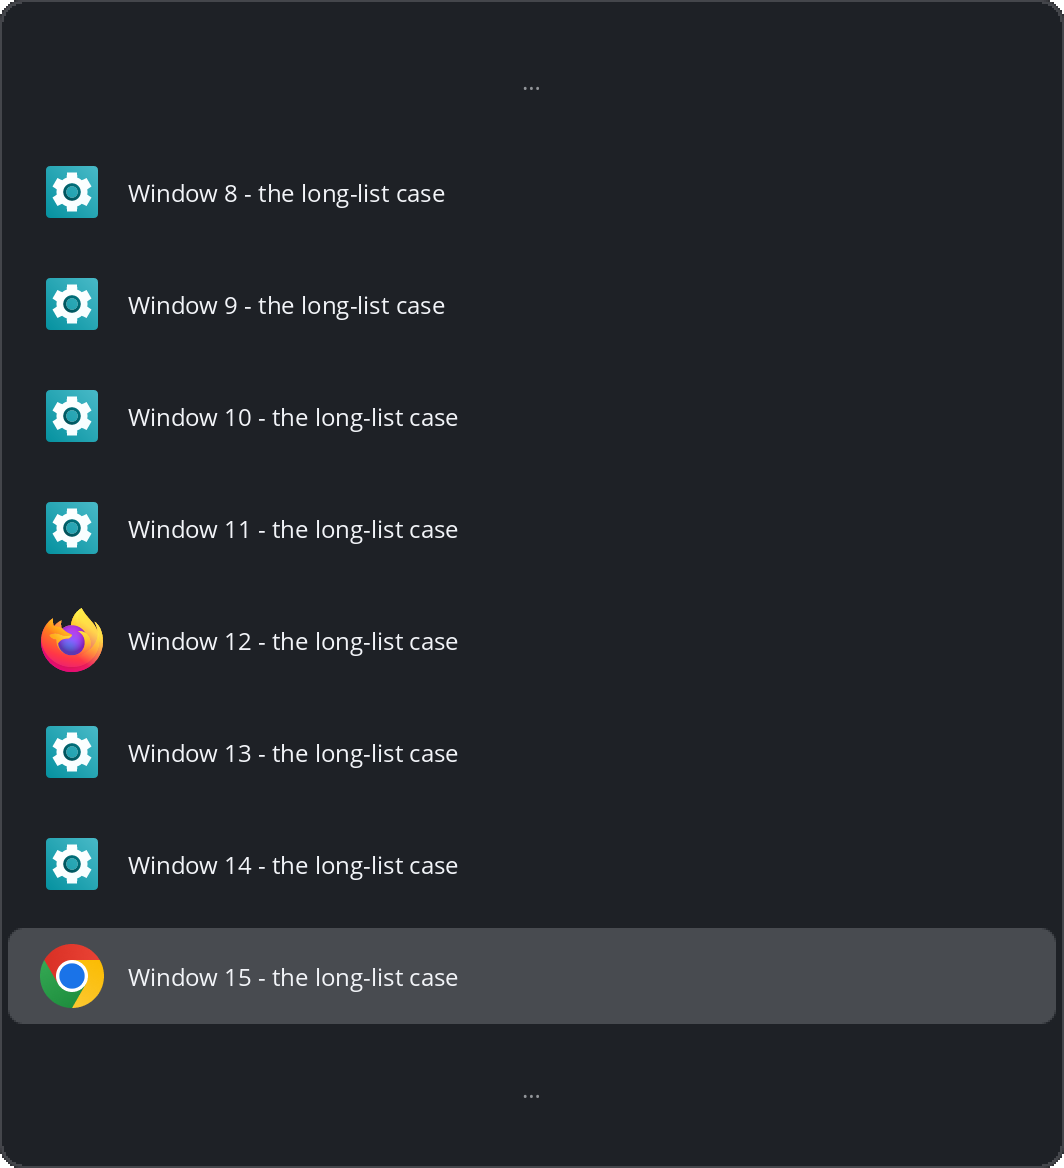
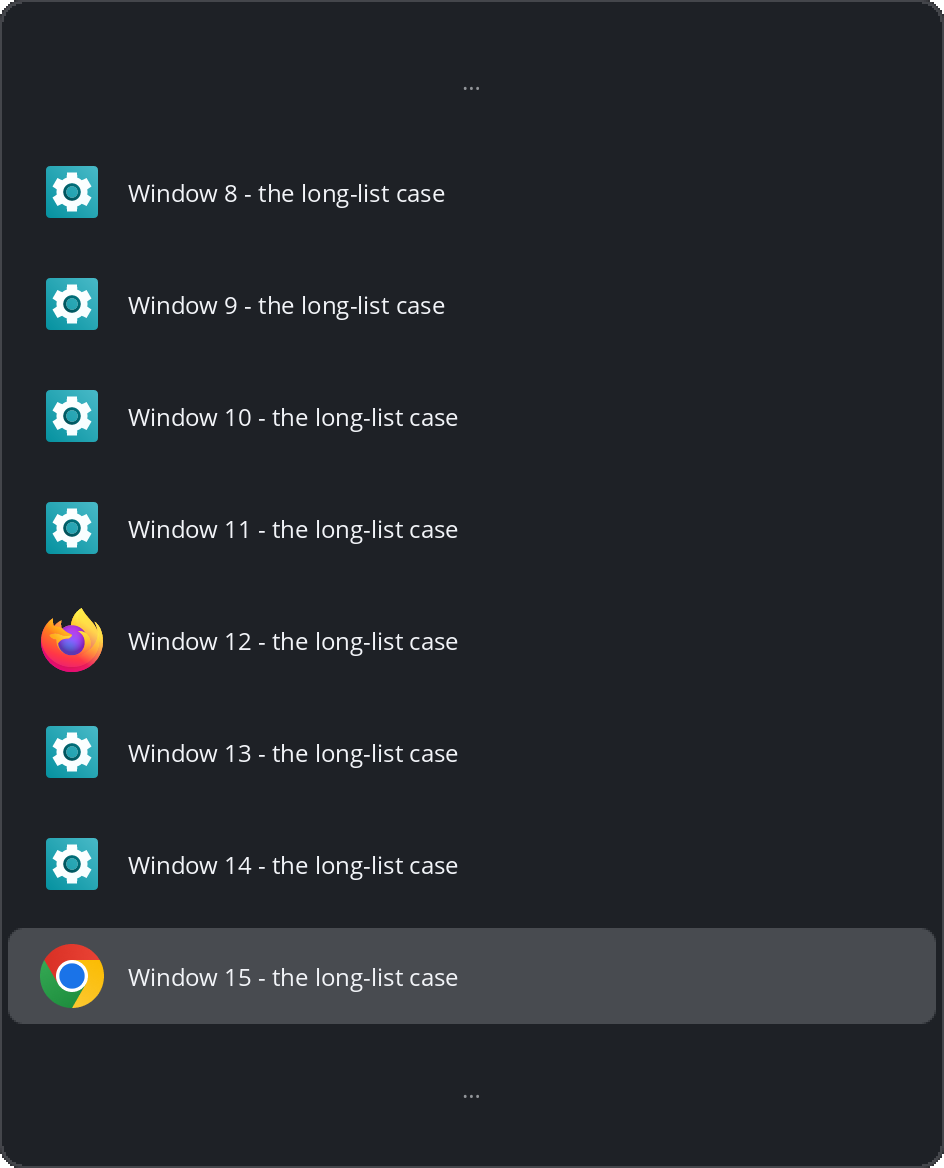
docs: the hero card catches up — content-sized width, re-derived sheet offsets

diff --git a/site/index.html b/site/index.html
@@ -40,7 +40,7 @@ airlock install</code></pre>
         </div>
       </div>
       <figure class="hero-card">
-        <img src="assets/overlay-card.png" width="532" height="584"
+        <img src="assets/overlay-card.png" width="472" height="584"
              alt="Airlock's Alt+Tab overlay: a dark rounded card listing the current workspace's windows; app icon and title per row, one highlighted, ellipsis rows above and below">
         <figcaption><span class="hub" aria-hidden="true"></span><span>The
         current workspace's windows, most recently used first.</span></figcaption>

diff --git a/README.md b/README.md
@@ -4,7 +4,7 @@ Workspace-isolated Alt+Tab for the COSMIC™ desktop: the switcher lists and
 cycles only the windows on the **current workspace**, so nothing you parked
 elsewhere leaks into your focus.
 
-<img src="https://raw.githubusercontent.com/l1br3-io/cosmic-ext-airlock/main/docs/img/overlay-card.png" width="532" alt="Airlock's Alt+Tab overlay: a dark rounded card listing the current workspace's windows — app icon and title per row, one highlighted, ellipsis rows above and below">
+<img src="https://raw.githubusercontent.com/l1br3-io/cosmic-ext-airlock/main/docs/img/overlay-card.png" width="472" alt="Airlock's Alt+Tab overlay: a dark rounded card listing the current workspace's windows — app icon and title per row, one highlighted, ellipsis rows above and below">
 
 > Airlock is third-party software for the COSMIC™ desktop. It is not official
 > COSMIC software and is not affiliated with or endorsed by System76.
